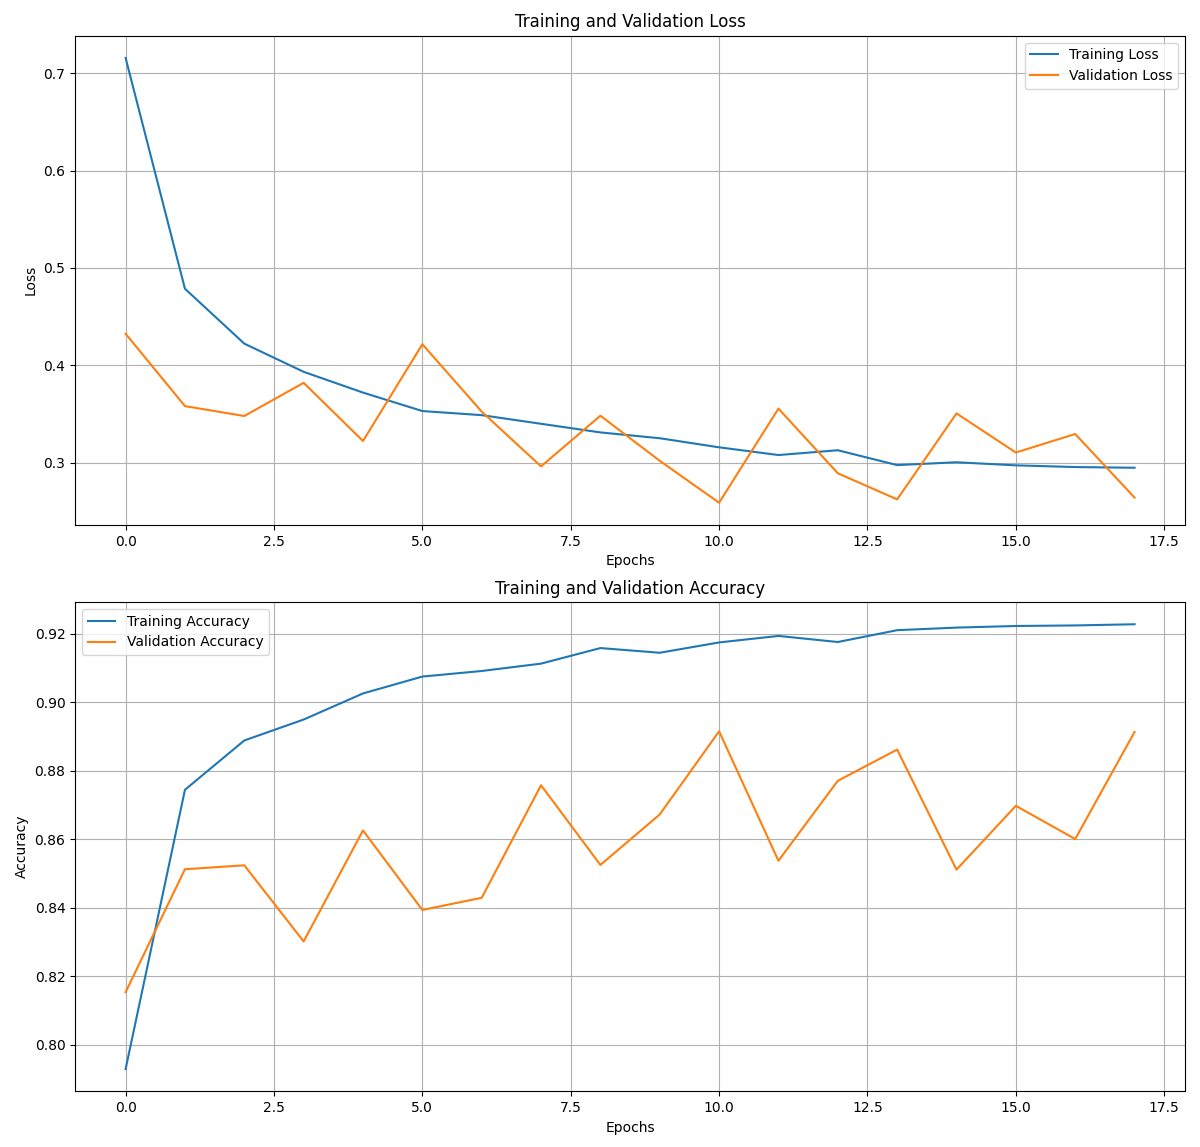
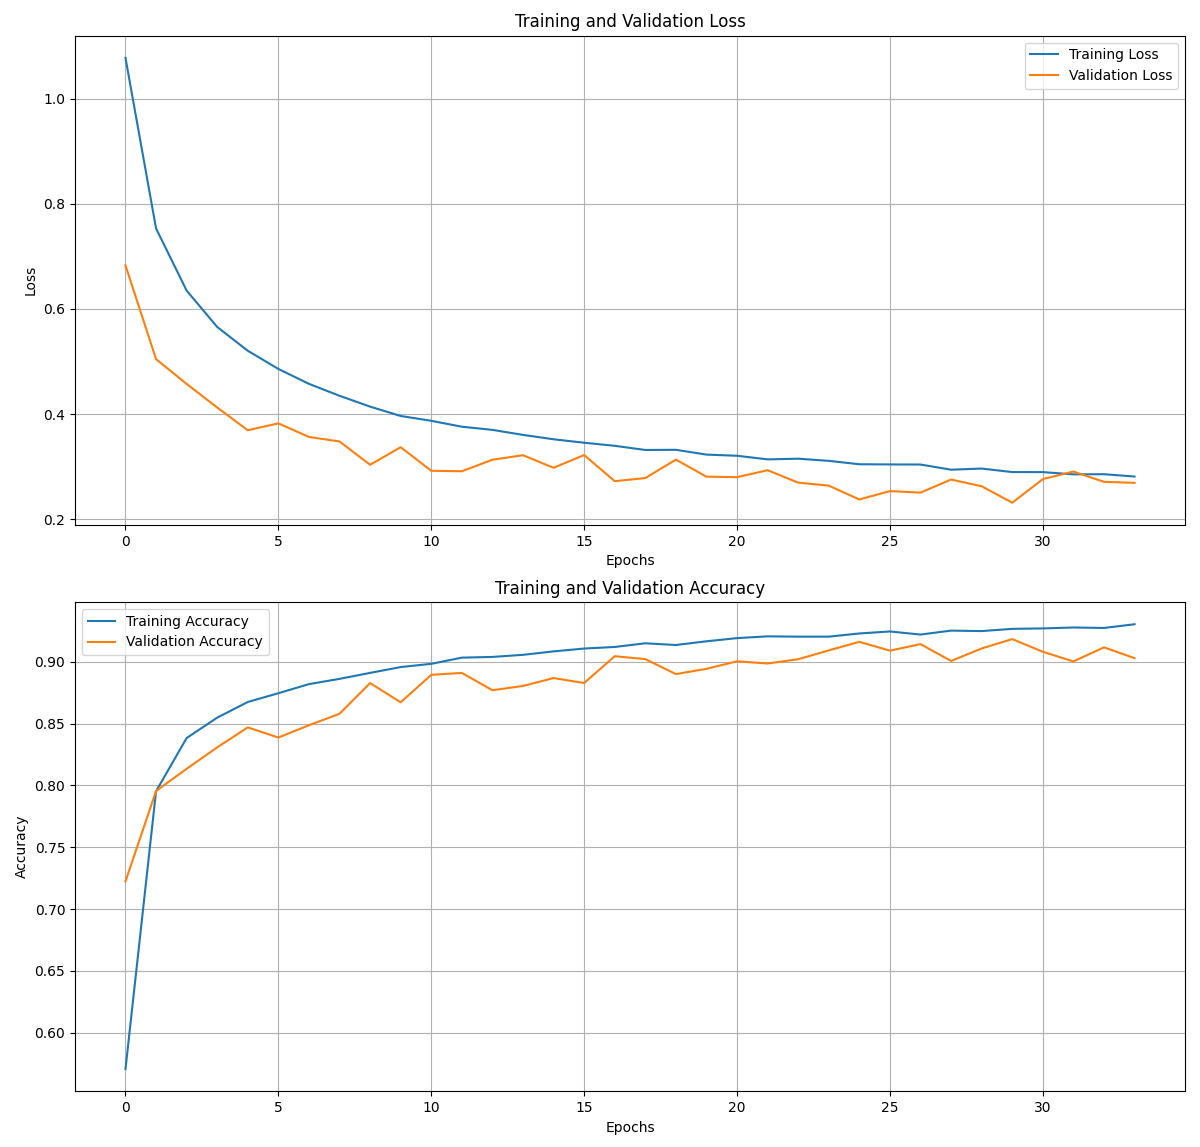
Go on with  testing

diff --git a/Training_Data/0_TSE.py b/Training_Data/0_TSE.py
@@ -1,0 +1,58 @@
+import pandas as pd
+import numpy as np
+from sklearn.preprocessing import StandardScaler, LabelEncoder
+from preprocess_dataset import fix_dataset, load_telemetry_data
+from keras.models import Sequential
+from keras.layers import Dense, Dropout
+from keras.utils import to_categorical
+from sklearn.metrics import classification_report, confusion_matrix
+from sklearn.utils.class_weight import compute_class_weight
+from custom_early_stop import CustomEarlyStopping
+import numpy as np
+import seaborn as sns
+import matplotlib.pyplot as plt
+import joblib
+from sklearn.manifold import TSNE
+import matplotlib.pyplot as plt
+import seaborn as sns
+
+split_by_circuit = True
+
+df = load_telemetry_data("../data/dataset/vehicle_telemetry_*.csv")
+if df.empty:
+    print("Nessun file trovato. Controlla il pattern o la cartella.")
+    exit()
+
+df = fix_dataset(df)
+
+result_encoder = LabelEncoder()
+df["result"] = result_encoder.fit_transform(df["result"])
+
+
+# Scala i dati
+scaler = StandardScaler()
+# Seleziona solo le feature numeriche
+feature_cols = [col for col in df.columns if col not in ["temp", "track", "driver"]]
+
+X_scaled = scaler.fit_transform(df[feature_cols])
+
+
+# T-SNE
+tsne = TSNE(n_components=2, random_state=42, n_jobs=-1, verbose=1)
+X_tsne = tsne.fit_transform(X_scaled)
+
+df["tsne_1"] = X_tsne[:, 0]
+df["tsne_2"] = X_tsne[:, 1]
+
+df["result_name"] = df["result"].apply(lambda x: result_encoder.classes_[x])
+
+plt.figure(figsize=(10, 8))
+sns.scatterplot(
+    x="tsne_1", y="tsne_2", hue="result_name", palette="tab10", data=df, alpha=0.7
+)
+plt.title("T-SNE Visualization")
+plt.xlabel("T-SNE Dimension 1")
+plt.ylabel("T-SNE Dimension 2")
+plt.legend(title="Result", loc="best")
+plt.grid()
+plt.show()

diff --git a/Training_Data/5_random.py b/Training_Data/5_random.py
@@ -11,6 +11,7 @@ from sklearn.utils import shuffle
 from preprocess_dataset import fix_dataset, load_telemetry_data
 from custom_early_stop import CustomEarlyStopping
 from keras.layers import BatchNormalization
+from keras.layers import Input
 
 import seaborn as sns
 import matplotlib.pyplot as plt
@@ -41,18 +42,13 @@ if df.empty:
     exit()
 
 df = fix_dataset(df)
+df["time_idx"] = df.groupby(["track", "driver", "temp"]).cumcount()
 
 result_encoder = LabelEncoder()
 df["result"] = result_encoder.fit_transform(df["result"])
 result_classes = result_encoder.classes_
-print("Mappatura delle classi:")
-for i, class_name in enumerate(result_classes):
-    print(f"{i}: {class_name}")
 
-# Encoding altre colonne categoriali
-df["track"] = LabelEncoder().fit_transform(df["track"])
-df["driver"] = LabelEncoder().fit_transform(df["driver"])
-df["temp"] = LabelEncoder().fit_transform(df["temp"])
+
 
 # Selezione feature numeriche + scaling
 feature_cols = [col for col in df.columns if col not in ["track", "driver", "temp", "result"]]
@@ -96,18 +92,13 @@ if augmented_X:
     X_train = pd.concat([X_train, augmented_X], axis=0)
     y_train = np.vstack([y_train, augmented_y])
 
-# Conta il numero di etichette per classe dopo la data augmentation
-class_distribution = np.bincount(np.argmax(y_train, axis=1))
-print("Distribuzione delle classi dopo la data augmentation:")
-for i, count in enumerate(class_distribution):
-    print(f"Classe {i} ({result_classes[i]}): {count} esempi")
-
 # Shuffle finale
 X_train, y_train = shuffle(X_train, y_train, random_state=random_state)
 
 # === Modello ===
 model = Sequential([
-    Dense(256, activation='relu', input_shape=(X_train.shape[1],)),
+    Input(shape=(X_train.shape[1],)),  # Definisci la forma dell'input
+    Dense(256, activation='relu'),
     BatchNormalization(),
     Dropout(0.3),
     
@@ -123,7 +114,7 @@ model = Sequential([
     BatchNormalization(),
     Dropout(0.2),
     
-    Dense(4, activation='softmax')
+    Dense(4, activation='softmax')  # Numero di classi
 ])
 
 

diff --git a/Training_Data/0_simple_train.py b/Training_Data/0_simple_train.py
@@ -99,7 +99,7 @@ history = model.fit(
     X_train, y_train,
     validation_data=(X_val, y_val),
     epochs=50,
-    batch_size=64,
+    batch_size=1024,
     callbacks=[custom_early_stopping],
     class_weight=class_weights_dict,
     verbose=0

diff --git a/Training_Data/5_random_circuit.py b/Training_Data/5_random_circuit.py
@@ -33,6 +33,7 @@ if df.empty:
     exit()
 
 df = fix_dataset(df)
+df["time_idx"] = df.groupby(["track", "driver", "temp"]).cumcount()
 
 result_encoder = LabelEncoder()
 df["result"] = result_encoder.fit_transform(df["result"])

diff --git a/NoteTesiScritta/0_NoteModelloRandom.md b/NoteTesiScritta/0_NoteModelloRandom.md
@@ -1,12 +1,12 @@
 No divisione per circuito
 
-Overall Test accuracy: 0.96
-precision for label 'grip_loss': 0.86
+Overall Test accuracy: 0.95
+precision for label 'grip_loss': 0.84
 precision for label 'high_grip_accelerate': 0.94
-precision for label 'low_grip_accelerate': 0.80
+precision for label 'low_grip_accelerate': 0.75
 precision for label 'neutral': 0.99
-precision for label 'macro avg': 0.90
-precision for label 'weighted avg': 0.96
+precision for label 'macro avg': 0.88
+precision for label 'weighted avg': 0.95
 
 
 Sì divisione circuito con data augmentation

diff --git a/NoteTesiScritta/0_NoteModello.md b/NoteTesiScritta/0_NoteModello.md
@@ -75,3 +75,7 @@ Dipende dal contesto e dall'obiettivo del modello, ma in generale:
 In sintesi, la metrica più importante dipende dal tuo obiettivo specifico. Se alcune classi sono più critiche (ad esempio, `grip_loss`), potresti voler massimizzare precision e recall per quelle classi.
 
 
+
+
+
+